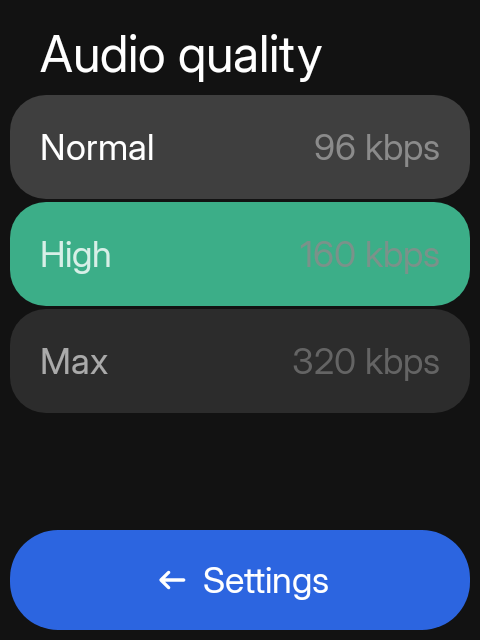
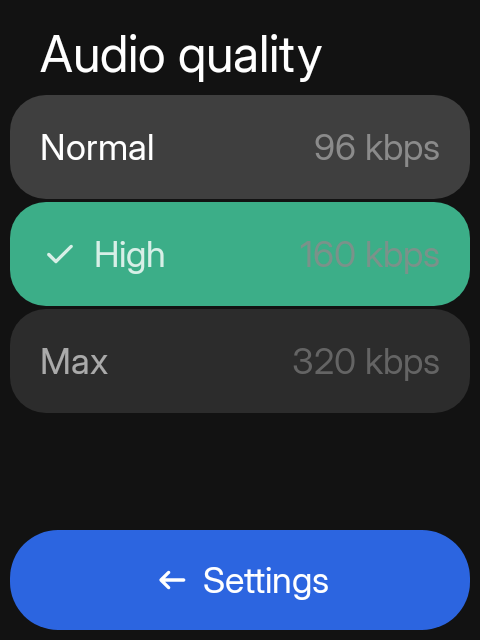
fix(a11y): expose labels and state on interactive rows
Label the revealed swipe action, announce seek time, and give settings toggles, search scopes, and audio quality proper switch/checkbox/radio semantics. Add semantics tests and refresh the audio quality screenshot.

Changed region(s): [[0.0625, 0.375, 0.3438, 0.4375]]

diff --git a/app/src/main/java/io/github/manuelrtsch/sideplay/SideplayItem.kt b/app/src/main/java/io/github/manuelrtsch/sideplay/SideplayItem.kt
@@ -1,15 +1,21 @@
 package io.github.manuelrtsch.sideplay
 
+import androidx.compose.foundation.background
 import androidx.compose.foundation.layout.Arrangement
 import androidx.compose.foundation.layout.Box
 import androidx.compose.foundation.layout.Row
 import androidx.compose.foundation.layout.RowScope
 import androidx.compose.foundation.layout.Spacer
 import androidx.compose.foundation.layout.fillMaxWidth
+import androidx.compose.foundation.layout.height
 import androidx.compose.foundation.layout.padding
+import androidx.compose.foundation.selection.selectable
+import androidx.compose.foundation.selection.toggleable
 import androidx.compose.runtime.Composable
 import androidx.compose.ui.Alignment
 import androidx.compose.ui.Modifier
+import androidx.compose.ui.draw.clip
+import androidx.compose.ui.semantics.Role
 import androidx.compose.ui.text.style.TextAlign
 import androidx.compose.ui.text.style.TextDecoration
 import hrln.interactive.sidekit.design.components.ItemColour
@@ -19,6 +25,7 @@ import hrln.interactive.sidekit.design.components.SidekitTile
 import hrln.interactive.sidekit.design.components.container
 import hrln.interactive.sidekit.design.icons.SidekitIcon
 import hrln.interactive.sidekit.design.theme.SidekitTheme
+import hrln.interactive.sidekit.design.theme.contentColorFor
 
 /**
  * Sideplay's own copy of the settings row while the published design library lacks the
@@ -36,23 +43,25 @@ fun SideplayItem(
     showLinkArrowWithSecondary: Boolean = false,
     colour: ItemColour = ItemColour.Primary,
     titleDecoration: TextDecoration? = null,
+    /** When set, the row is exposed as a switch/checkbox with this checked state. */
+    toggleable: Boolean? = null,
+    toggleRole: Role = Role.Switch,
+    /** When set, the row is exposed as a radio/selection row with this selected state. */
+    selected: Boolean? = null,
+    selectionRole: Role = Role.RadioButton,
     onClick: (() -> Unit)? = null,
     leading: (@Composable RowScope.() -> Unit)? = null
 ) {
-    SidekitTile(
-        modifier = modifier.fillMaxWidth(),
-        color = colour.container(),
-        onClick = onClick,
-        contentAlignment = Alignment.CenterStart
-    ) {
+    val contentColor = SidekitTheme.colors.contentColorFor(colour.container())
+    val content: @Composable () -> Unit = {
         Row(
             modifier = Modifier.padding(horizontal = SidekitTheme.spacing.itemPadding),
             verticalAlignment = Alignment.CenterVertically,
             horizontalArrangement = Arrangement.spacedBy(SidekitTheme.spacing.itemContentGap)
         ) {
             leading?.invoke(this)
-            if (icon != null) SidekitIconImage(icon)
-            SidekitText(title, textDecoration = titleDecoration)
+            if (icon != null) SidekitIconImage(icon, tint = contentColor)
+            SidekitText(title, color = contentColor, textDecoration = titleDecoration)
             if (secondary != null) {
                 if (secondaryNoEllipsis) Spacer(Modifier.weight(1f))
                 SidekitText(
@@ -67,9 +76,35 @@ fun SideplayItem(
                     if (secondary == null) Modifier.weight(1f) else Modifier,
                     contentAlignment = Alignment.CenterEnd
                 ) {
-                    SidekitIconImage(SidekitIcon.ArrowRightAlt)
+                    SidekitIconImage(SidekitIcon.ArrowRightAlt, tint = contentColor)
                 }
             }
         }
+    }
+    when {
+        toggleable != null -> Box(
+            modifier = modifier.fillMaxWidth()
+                .height(SidekitTheme.spacing.itemHeight)
+                .clip(SidekitTheme.shapes.item)
+                .background(colour.container())
+                .toggleable(value = toggleable, role = toggleRole, onValueChange = { onClick?.invoke() }),
+            contentAlignment = Alignment.CenterStart
+        ) { content() }
+
+        selected != null -> Box(
+            modifier = modifier.fillMaxWidth()
+                .height(SidekitTheme.spacing.itemHeight)
+                .clip(SidekitTheme.shapes.item)
+                .background(colour.container())
+                .selectable(selected = selected, role = selectionRole, onClick = { onClick?.invoke() }),
+            contentAlignment = Alignment.CenterStart
+        ) { content() }
+
+        else -> SidekitTile(
+            modifier = modifier.fillMaxWidth(),
+            color = colour.container(),
+            onClick = onClick,
+            contentAlignment = Alignment.CenterStart
+        ) { content() }
     }
 }

diff --git a/app/src/main/java/io/github/manuelrtsch/sideplay/SpotifySettingsScreens.kt b/app/src/main/java/io/github/manuelrtsch/sideplay/SpotifySettingsScreens.kt
@@ -6,6 +6,7 @@ import androidx.compose.foundation.layout.Column
 import androidx.compose.foundation.layout.fillMaxWidth
 import androidx.compose.foundation.layout.padding
 import androidx.compose.foundation.lazy.rememberLazyListState
+import androidx.compose.foundation.selection.selectableGroup
 import androidx.compose.runtime.Composable
 import androidx.compose.runtime.LaunchedEffect
 import androidx.compose.runtime.getValue
@@ -16,6 +17,7 @@ import androidx.compose.ui.Modifier
 import androidx.compose.ui.focus.FocusRequester
 import androidx.compose.ui.focus.focusRequester
 import androidx.compose.ui.platform.LocalContext
+import androidx.compose.ui.semantics.Role
 import androidx.compose.ui.unit.dp
 import hrln.interactive.sidekit.design.action.ActionMotion
 import hrln.interactive.sidekit.design.action.ActionTone
@@ -26,6 +28,7 @@ import hrln.interactive.sidekit.design.components.SidekitList
 import hrln.interactive.sidekit.design.components.SidekitScaffold
 import hrln.interactive.sidekit.design.components.SidekitText
 import hrln.interactive.sidekit.design.components.listFade
+import hrln.interactive.sidekit.design.icons.SidekitIcon
 import hrln.interactive.sidekit.design.theme.SidekitTheme
 
 private enum class SettingsConfirmation { SignOut, ClearCache, ClearHistory }
@@ -121,6 +124,7 @@ fun SpotifySettingsScreen(
                     Modifier.listFade(listState, 2),
                     secondary = if (state.autoplay) "On" else "Off",
                     secondaryToEnd = true,
+                    toggleable = state.autoplay,
                     onClick = onAutoplay
                 )
             }
@@ -130,6 +134,7 @@ fun SpotifySettingsScreen(
                     Modifier.listFade(listState, 3),
                     secondary = if (state.normalization) "On" else "Off",
                     secondaryToEnd = true,
+                    toggleable = state.normalization,
                     onClick = onNormalization
                 )
             }
@@ -139,6 +144,7 @@ fun SpotifySettingsScreen(
                     Modifier.listFade(listState, 4),
                     secondary = if (state.gapless) "On" else "Off",
                     secondaryToEnd = true,
+                    toggleable = state.gapless,
                     onClick = onGapless
                 )
             }
@@ -209,7 +215,7 @@ fun SpotifyAudioQualityScreen(
         val listState = rememberLazyListState()
         val first = remember { FocusRequester() }
         LaunchedEffect(Unit) { runCatching { first.requestFocus() } }
-        SidekitList(padding, state = listState) {
+        SidekitList(padding, modifier = Modifier.selectableGroup(), state = listState) {
             AudioQuality.entries.forEachIndexed { index, quality ->
                 val selected = quality == state.audioQuality
                 item(key = quality.name) {
@@ -221,7 +227,10 @@ fun SpotifyAudioQualityScreen(
                         secondary = "${quality.bitrateKbps} kbps",
                         secondaryToEnd = true,
                         secondaryNoEllipsis = true,
+                        icon = if (selected) SidekitIcon.Check else null,
                         colour = if (selected) ItemColour.Secondary else ItemColour.Primary,
+                        selected = selected,
+                        selectionRole = Role.RadioButton,
                         onClick = { onSelect(quality) }
                     )
                 }

diff --git a/app/src/main/java/io/github/manuelrtsch/sideplay/SpotifySearchScreen.kt b/app/src/main/java/io/github/manuelrtsch/sideplay/SpotifySearchScreen.kt
@@ -19,13 +19,13 @@ import androidx.compose.ui.input.key.KeyEventType
 import androidx.compose.ui.input.key.key
 import androidx.compose.ui.input.key.onPreviewKeyEvent
 import androidx.compose.ui.input.key.type
+import androidx.compose.ui.semantics.Role
 import androidx.compose.ui.semantics.contentDescription
 import androidx.compose.ui.semantics.semantics
 import androidx.compose.ui.unit.dp
 import hrln.interactive.sidekit.design.action.ActionMotion
 import hrln.interactive.sidekit.design.action.ActionTone
 import hrln.interactive.sidekit.design.action.SideAction
-import hrln.interactive.sidekit.design.components.SidekitItem
 import hrln.interactive.sidekit.design.components.SidekitList
 import hrln.interactive.sidekit.design.components.SidekitScaffold
 import hrln.interactive.sidekit.design.components.SidekitTextField
@@ -431,11 +431,13 @@ fun SearchScopesScreen(
             SearchScope.entries.forEachIndexed { index, scope ->
                 item(key = scope.name) {
                     val included = scope in state.searchScopes
-                    SidekitItem(
+                    SideplayItem(
                         scope.label,
                         modifier = Modifier.listFade(listState, index + 1),
                         secondary = if (included) "On" else "Off",
                         icon = if (included) SidekitIcon.Check else null,
+                        toggleable = included,
+                        toggleRole = Role.Checkbox,
                         onClick = { onToggleScope(scope) }
                     )
                 }

diff --git a/app/src/test/java/io/github/manuelrtsch/sideplay/AccessibilitySemanticsTest.kt b/app/src/test/java/io/github/manuelrtsch/sideplay/AccessibilitySemanticsTest.kt
@@ -1,0 +1,45 @@
+package io.github.manuelrtsch.sideplay
+
+import androidx.compose.ui.semantics.Role
+import androidx.compose.ui.test.assertIsOn
+import androidx.compose.ui.test.assertIsSelectable
+import androidx.compose.ui.test.assertIsSelected
+import androidx.compose.ui.test.assertIsToggleable
+import androidx.compose.ui.test.junit4.v2.createComposeRule
+import androidx.compose.ui.test.onNodeWithText
+import androidx.test.ext.junit.runners.AndroidJUnit4
+import org.junit.Rule
+import org.junit.Test
+import org.junit.runner.RunWith
+
+@RunWith(AndroidJUnit4::class)
+class AccessibilitySemanticsTest {
+    @get:Rule val compose = createComposeRule()
+
+    @Test
+    fun toggleRowExposesSwitchState() {
+        compose.setContent {
+            SidekitPreviewFrame {
+                SideplayItem("Autoplay", secondary = "On", toggleable = true, onClick = {})
+            }
+        }
+
+        compose.onNodeWithText("Autoplay").assertIsToggleable().assertIsOn()
+    }
+
+    @Test
+    fun selectedRowExposesRadioState() {
+        compose.setContent {
+            SidekitPreviewFrame {
+                SideplayItem(
+                    "Very high",
+                    selected = true,
+                    selectionRole = Role.RadioButton,
+                    onClick = {}
+                )
+            }
+        }
+
+        compose.onNodeWithText("Very high").assertIsSelectable().assertIsSelected()
+    }
+}

diff --git a/app/src/main/java/io/github/manuelrtsch/sideplay/SpotifyComponents.kt b/app/src/main/java/io/github/manuelrtsch/sideplay/SpotifyComponents.kt
@@ -64,6 +64,7 @@ import androidx.compose.ui.semantics.contentDescription
 import androidx.compose.ui.semantics.progressBarRangeInfo
 import androidx.compose.ui.semantics.semantics
 import androidx.compose.ui.semantics.setProgress
+import androidx.compose.ui.semantics.stateDescription
 import androidx.compose.ui.text.style.TextAlign
 import androidx.compose.ui.unit.Dp
 import androidx.compose.ui.unit.dp
@@ -726,6 +727,7 @@ fun SpotifySeek(positionMs: Long, durationMs: Long, onSeek: (Long) -> Unit, modi
                 .semantics {
                     if (seekable) {
                         contentDescription = "Seek"
+                        stateDescription = "${formatDuration(shownPositionMs)} of ${formatDuration(durationMs)}"
                         progressBarRangeInfo = ProgressBarRangeInfo(shownFraction, 0f..1f)
                         setProgress { target ->
                             seekTo(target)

diff --git a/app/src/main/java/io/github/manuelrtsch/sideplay/SpotifyNowPlayingScreens.kt b/app/src/main/java/io/github/manuelrtsch/sideplay/SpotifyNowPlayingScreens.kt
@@ -163,7 +163,12 @@ fun SpotifyNowPlayingScreen(
                     if (current.creator.isNotBlank()) {
                         SidekitText(
                             current.creator,
-                            Modifier.fillMaxWidth().clickable(enabled = current.artistId.spotifyIdOrNull() != null, onClickLabel = "Open artist", onClick = onArtist),
+                            Modifier.fillMaxWidth().clickable(
+                                enabled = current.artistId.spotifyIdOrNull() != null,
+                                onClickLabel = "Open artist",
+                                role = Role.Button,
+                                onClick = onArtist
+                            ),
                             style = SidekitTheme.typography.label,
                             color = SidekitTheme.colors.surfaceA6,
                             textAlign = TextAlign.Center

diff --git a/app/src/main/java/io/github/manuelrtsch/sideplay/ui/SwipeReveal.kt b/app/src/main/java/io/github/manuelrtsch/sideplay/ui/SwipeReveal.kt
@@ -45,6 +45,7 @@ import androidx.compose.ui.platform.LocalView
 import androidx.compose.ui.res.vectorResource
 import androidx.compose.ui.semantics.CustomAccessibilityAction
 import androidx.compose.ui.semantics.Role
+import androidx.compose.ui.semantics.contentDescription
 import androidx.compose.ui.semantics.customActions
 import androidx.compose.ui.semantics.semantics
 import androidx.compose.ui.unit.dp
@@ -303,6 +304,7 @@ fun SidekitSwipeRow(
                             )
                             performAction()
                         }
+                        .semantics { contentDescription = swipeAction.label }
                 )
             }
         }

diff --git a/app/src/main/java/io/github/manuelrtsch/sideplay/SideplayAppearanceScreen.kt b/app/src/main/java/io/github/manuelrtsch/sideplay/SideplayAppearanceScreen.kt
@@ -33,6 +33,7 @@ fun SideplayAppearanceScreen(onBack: () -> Unit) {
                     "Compact layout",
                     secondary = if (theme.compact) "On" else "Off",
                     secondaryToEnd = true,
+                    toggleable = theme.compact,
                     onClick = { store.writeCompact(!theme.compact) }
                 )
             }
